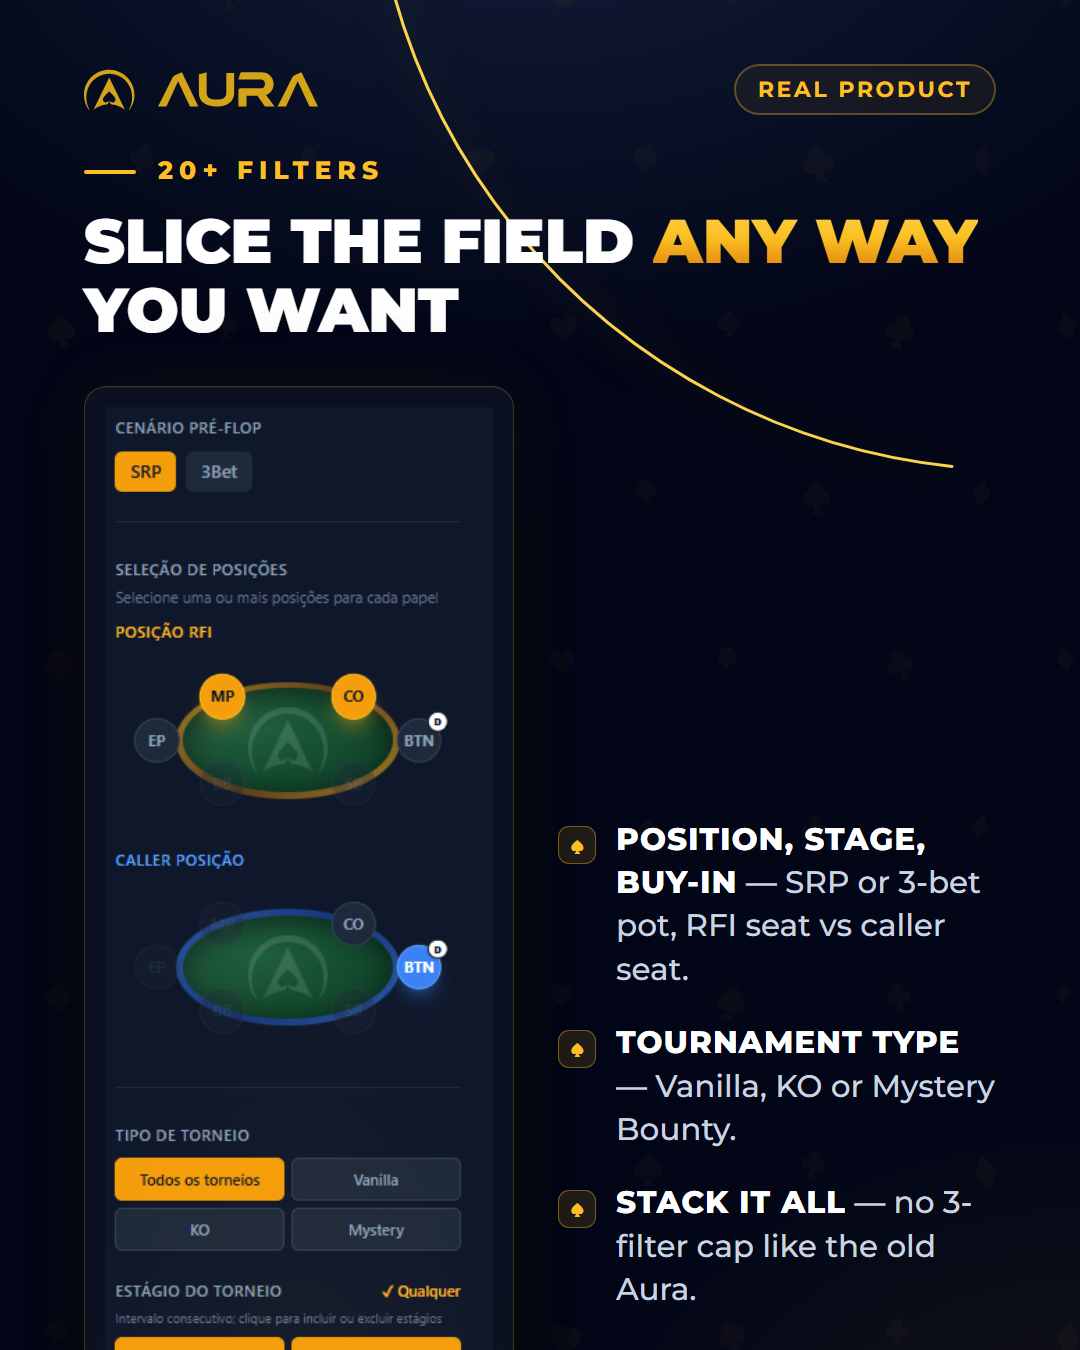
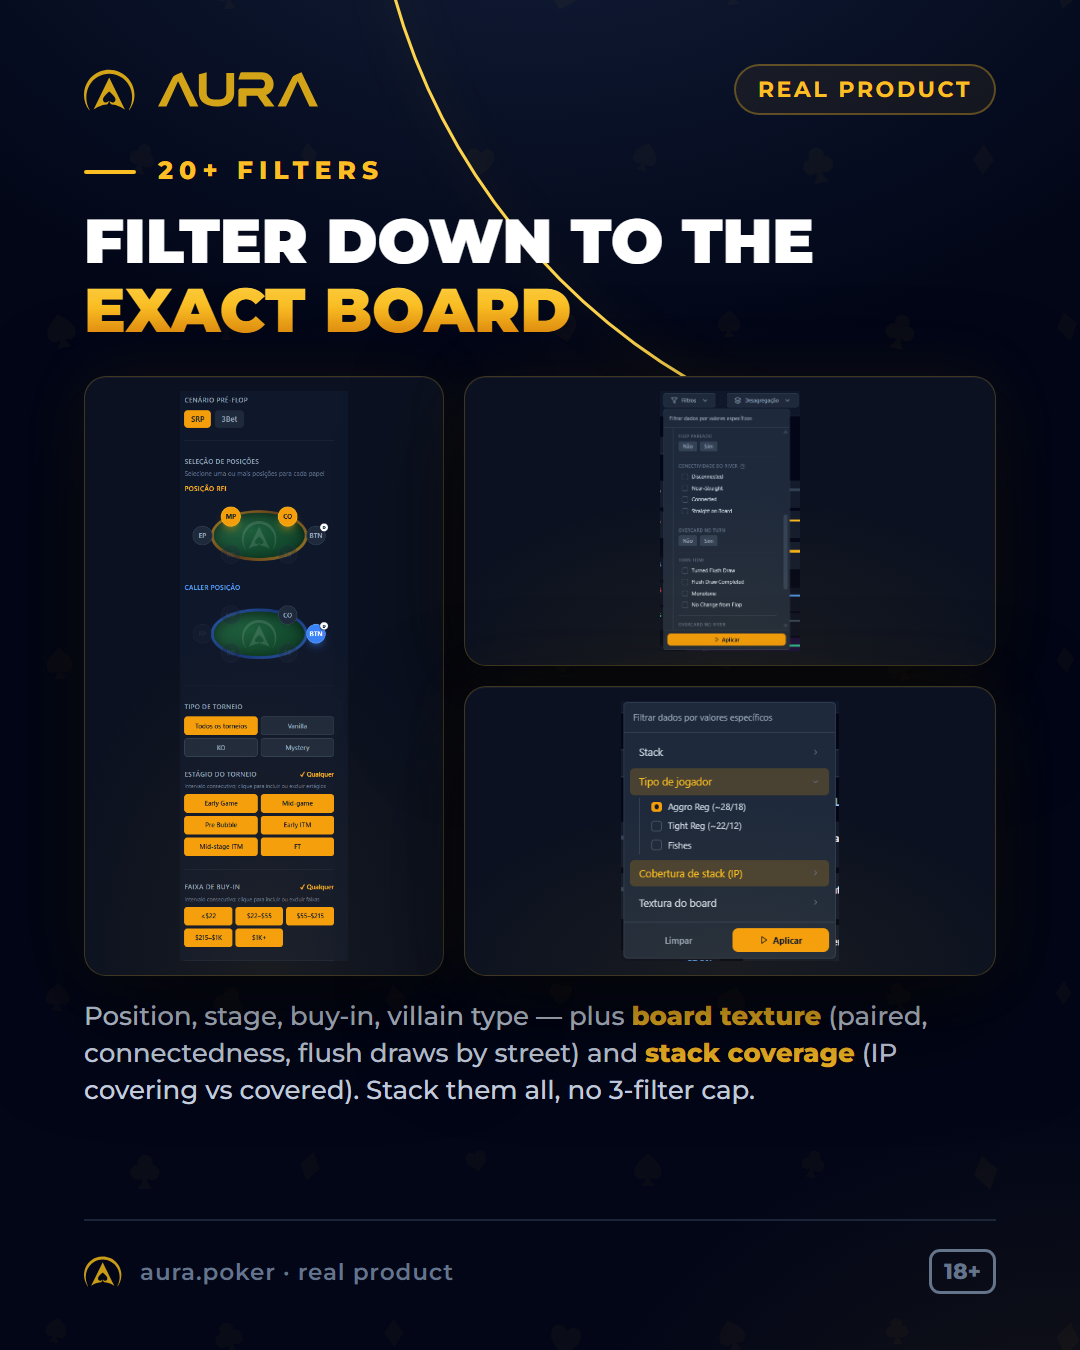
feat(instagram): post dos 20+ filtros vira colagem com board texture + stack coverage
Pedido do dono: mostrar board textures, connectedness, paired boards e stack coverage no post de filtros. Novo layout collage no shot-showcase.html (1 painel alto + 2 empilhados). shot-filters agora mostra 3 paines reais: filtros1 (posicoes/estagio/buy-in) + filtros2 (flop pareado, conectividade do river, turn tone/flush draws) + filtros3 (cobertura de stack IP, tipo de jogador). Legenda atualizada.

Changed region(s): [[0.0611, 0.28, 0.9167, 1.0], [0.0611, 0.1556, 0.9167, 0.2489]]

diff --git a/instagram/templates/shot-showcase.html b/instagram/templates/shot-showcase.html
@@ -93,6 +93,19 @@ header { display: flex; justify-content: space-between; align-items: center; pos
 .split .bullet .t { font-size: 31px; font-weight: 500; line-height: 1.4; color: var(--ink-soft); }
 .split .bullet .t b { color: var(--ink); font-weight: 800; text-transform: uppercase; letter-spacing: 0.03em; }
 
+/* COLLAGE — 1 painel alto à esquerda + 2 painéis empilhados à direita */
+.collage-wrap { position: relative; z-index: 3; margin-top: 30px; flex: 1; display: flex; flex-direction: column; }
+.collage { flex: none; height: 600px; display: flex; gap: 20px; }
+.collage .cleft { flex: none; width: 360px; }
+.collage .cleft .shot-card { height: 100%; }
+.collage .cright { flex: 1; height: 100%; display: flex; flex-direction: column; gap: 20px; }
+.collage .shot-card { padding: 14px; display: flex; align-items: center; justify-content: center; }
+.collage .cleft .shot-card { height: 100%; }
+.collage .cright .shot-card { flex: 1; min-height: 0; }
+.collage .shot-card img { width: 100%; height: 100%; object-fit: contain; }
+.collage-cap { margin-top: 22px; font-size: 26px; font-weight: 500; line-height: 1.42; color: var(--ink-soft); }
+.collage-cap b { color: var(--amber); font-weight: 800; }
+
 footer { position: relative; z-index: 3; display: flex; align-items: center; justify-content: space-between; border-top: 2px solid rgba(30,41,59,0.9); padding-top: 28px; margin-top: 30px; }
 .note { display: flex; align-items: center; gap: 16px; font-size: 23px; font-weight: 600; color: var(--ink-dim); letter-spacing: 0.04em; }
 .note .icon { width: 40px; height: 33px; color: var(--gold); opacity: 0.95; }
@@ -155,6 +168,16 @@ if (CONFIG.layout === "split") {
   stage.innerHTML = `
     <div class="shot-card" style="background:${CONFIG.shotBg}">${badge}<span class="glow"></span><img src="${CONFIG.shotSrc}"></div>
     <div class="col"><div class="bullets">${CONFIG.bullets.map(b => `<div class="bullet"><span class="m">♠</span><span class="t">${b}</span></div>`).join("")}</div></div>`;
+} else if (CONFIG.layout === "collage") {
+  const c = CONFIG.collage || {};
+  stage.className = "collage-wrap";
+  const card = (src) => `<div class="shot-card" style="background:${CONFIG.shotBg}"><span class="glow"></span><img src="${src}"></div>`;
+  stage.innerHTML = `
+    <div class="collage">
+      <div class="cleft">${card(c.left)}</div>
+      <div class="cright">${card(c.topRight)}${card(c.bottomRight)}</div>
+    </div>
+    ${CONFIG.caption ? `<div class="collage-cap">${CONFIG.caption}</div>` : ""}`;
 } else {
   stage.className = "hero-wrap";
   const cap = CONFIG.caption ? `<div class="caption">${CONFIG.caption}</div>` : "";

diff --git a/instagram/templates/deck.js b/instagram/templates/deck.js
@@ -366,14 +366,11 @@ window.DECK = {
     footerNote: "aura.poker · real product", handle: "@aurapokeranalytics",
   },
   "shot-filters": {
-    layout: "split", kicker: "20+ filters",
-    titleHtml: "Slice the field <em>any way</em> you want",
-    shotSrc: "shots/filtros1.png", shotBg: "#0B1120",
-    bullets: [
-      "<b>Position, stage, buy-in</b> — SRP or 3-bet pot, RFI seat vs caller seat.",
-      "<b>Tournament type</b> — Vanilla, KO or Mystery Bounty.",
-      "<b>Stack it all</b> — no 3-filter cap like the old Aura.",
-    ],
+    layout: "collage", kicker: "20+ filters",
+    titleHtml: "Filter down to the <em>exact board</em>",
+    shotBg: "#0B1120",
+    collage: { left: "shots/filtros1.png", topRight: "shots/filtros2.png", bottomRight: "shots/filtros3.png" },
+    caption: "Position, stage, buy-in, villain type — plus <b>board texture</b> (paired, connectedness, flush draws by street) and <b>stack coverage</b> (IP covering vs covered). Stack them all, no 3-filter cap.",
     footerNote: "aura.poker · real product", handle: "@aurapokeranalytics",
   },
   "shot-preflop-ref": {
